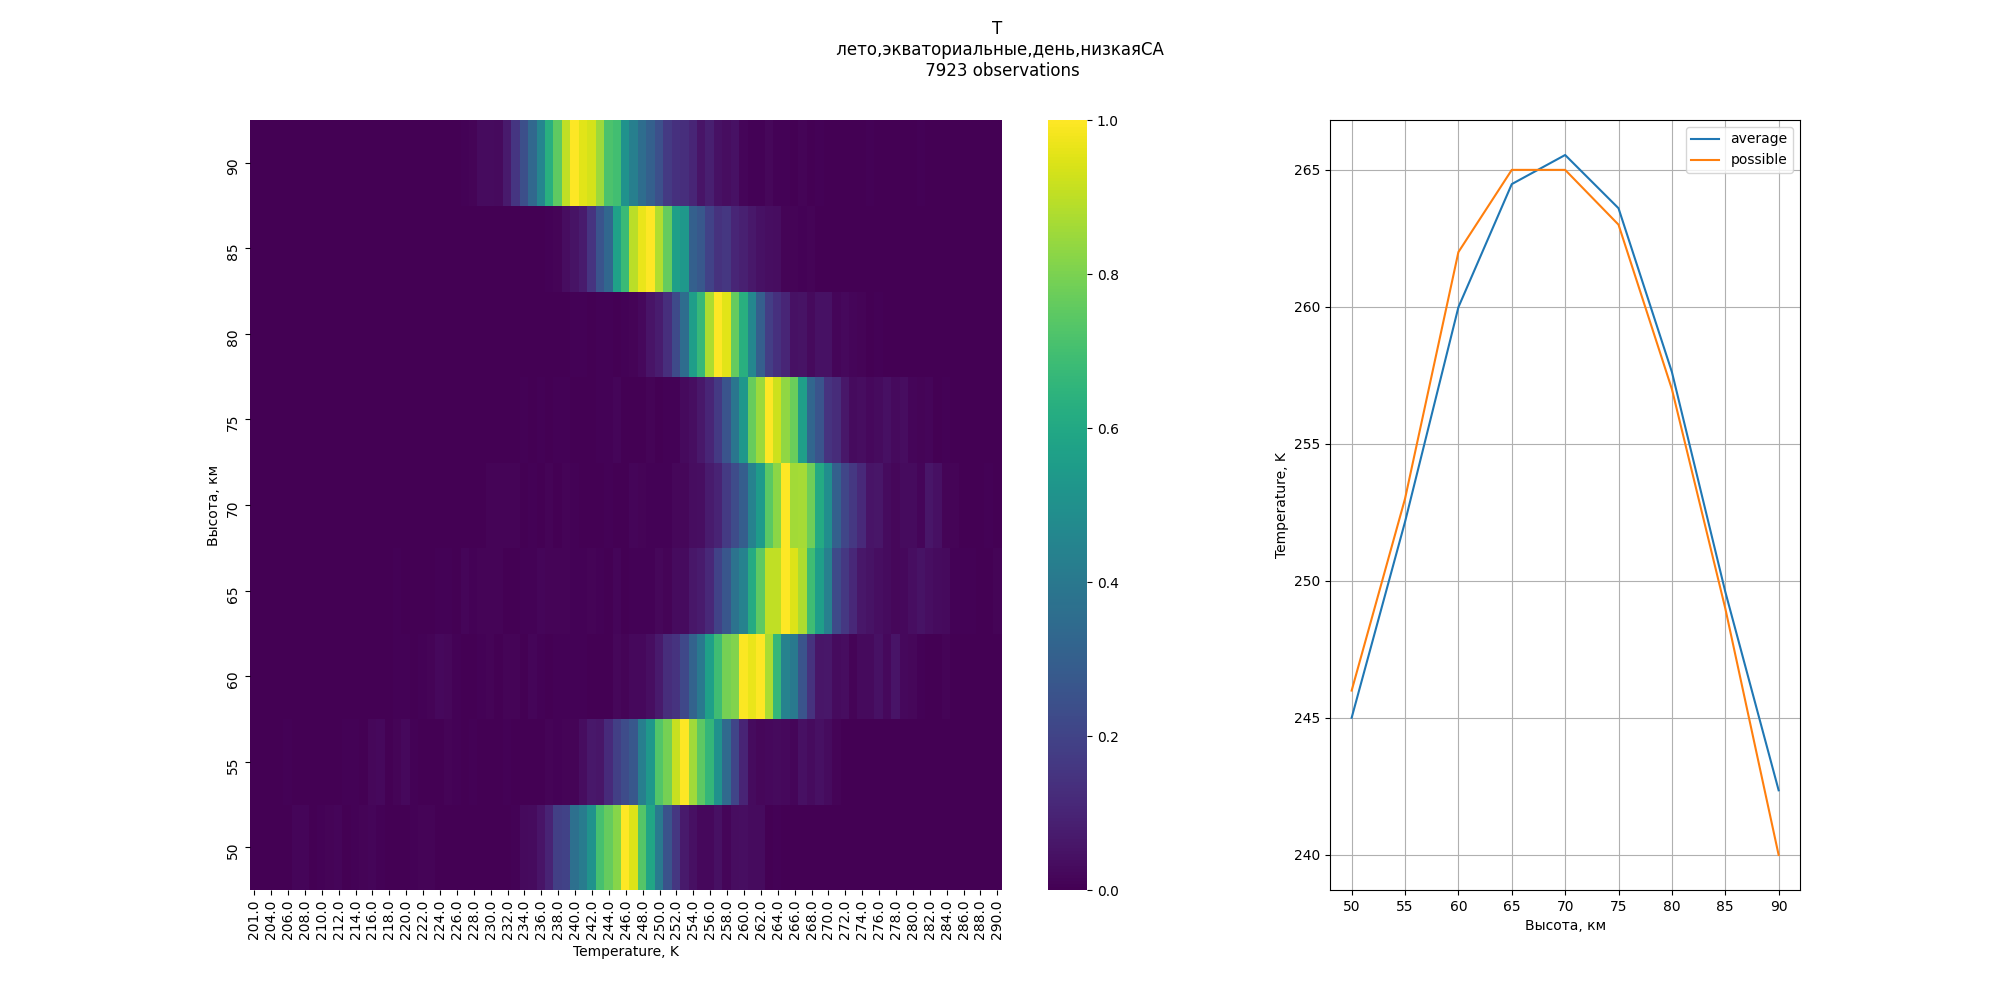
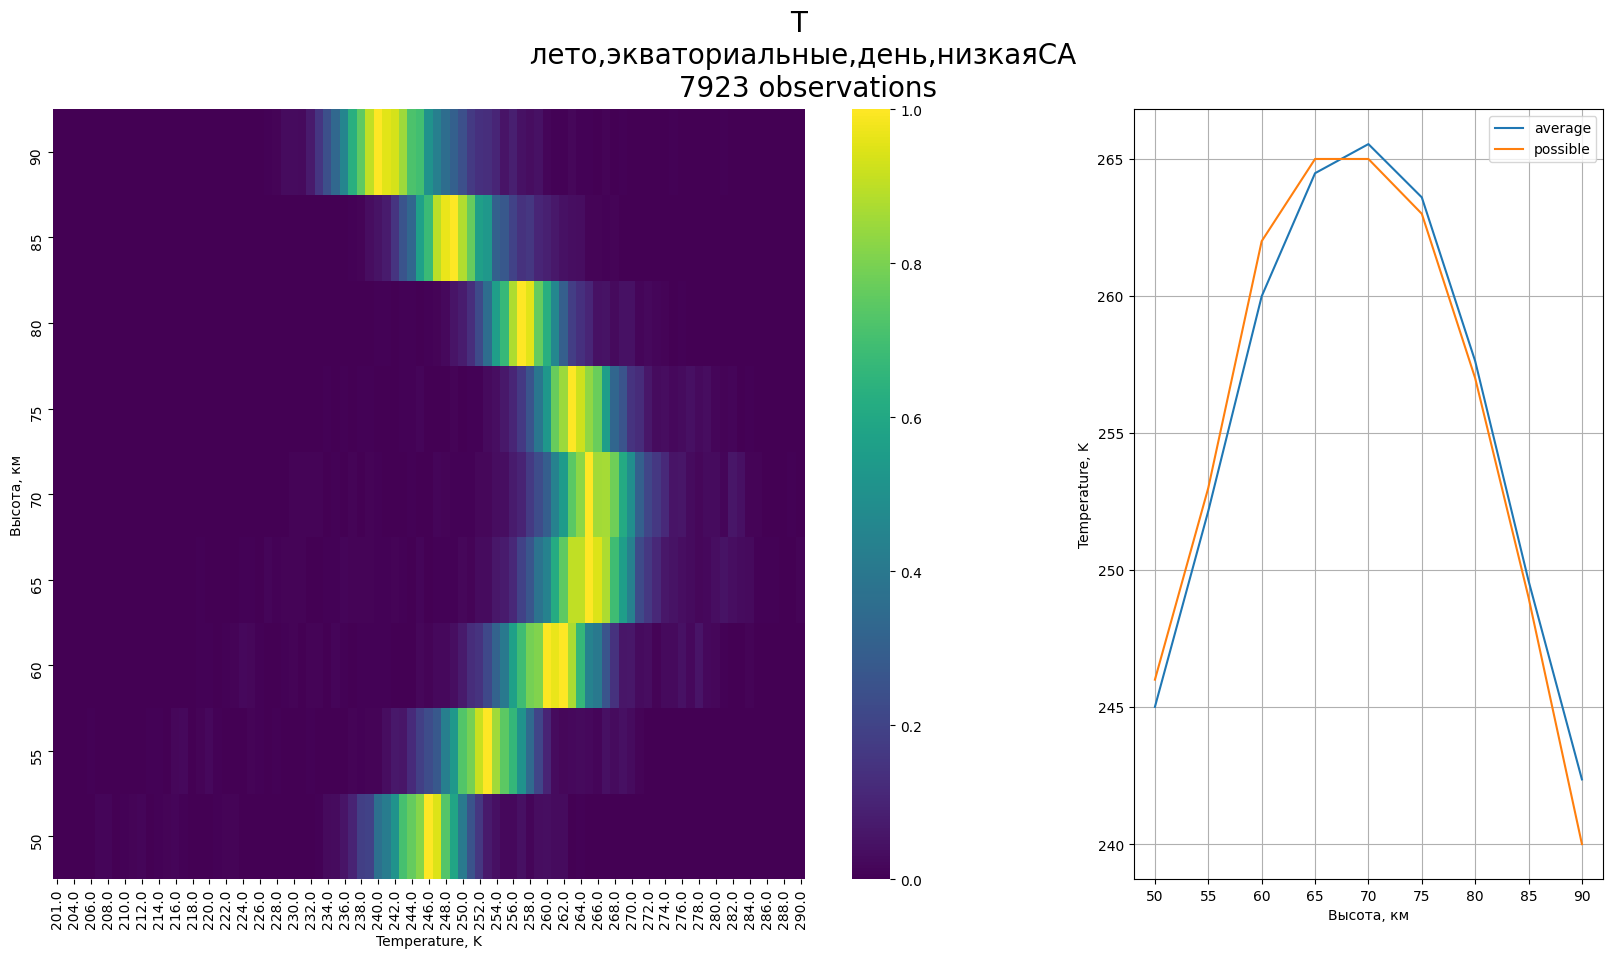
сделала норм график

diff --git a/python_code/kde_builder.py b/python_code/kde_builder.py
@@ -111,7 +111,7 @@ class KdeBuilder:
         fig.set_size_inches(20, 10)
         fig.suptitle(
             f'{self.__param} \n {self.__options} \n {self.obs_count} observations'
-            if not plt_tittle else f'{plt_tittle} \n {self.obs_count} observations')
+            if not plt_tittle else f'{plt_tittle} \n {self.obs_count} observations', fontsize=20)
 
         sb.heatmap(normed_data, cmap="viridis", ax=ax[0])
         ax[0].invert_yaxis()
@@ -139,7 +139,7 @@ class KdeBuilder:
         plt.grid()
         plt.legend()
 
-        plt.savefig(image_file)
+        plt.savefig(image_file,bbox_inches='tight', dpi=100)
         plt.close()
 
     def __add_avg_std(self):
